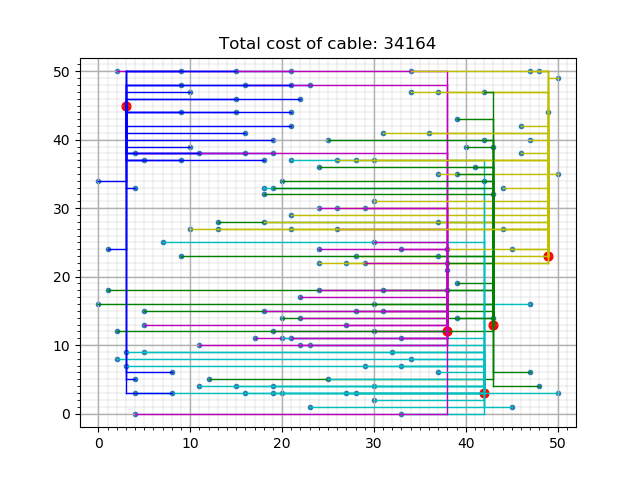
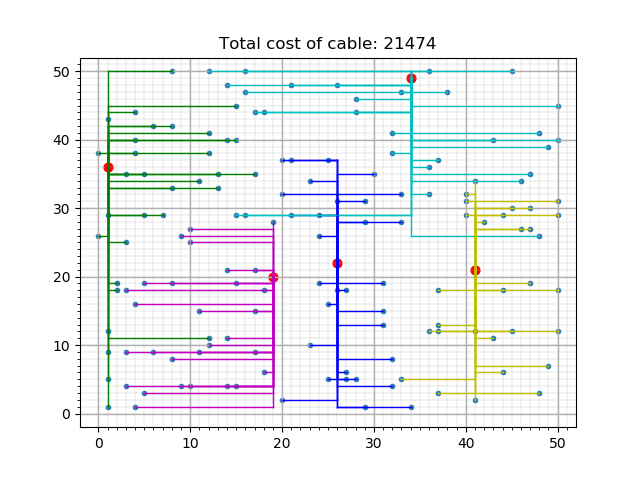
Optimize upgrade

Changed region(s): [[0.1562, 0.0625, 0.875, 0.875]]

diff --git a/smartgrid.py b/smartgrid.py
@@ -8,7 +8,7 @@ import re
 import operator
 
 # Moet worden vervangen door user input
-INPUT = 1
+INPUT = 2
 
 
 class Smartgrid(object):
@@ -221,7 +221,7 @@ class Smartgrid(object):
         changes = 0
 
         # While one or more batteries are over their capacity
-        while self.check_full():
+        while self.check_full() and changes < 250:
 
             # kan korter
             # Sorts batteries based off total inputs from high to low
@@ -250,6 +250,12 @@ class Smartgrid(object):
                 curr_batt = house.link
                 changes += 1
                 self.swap_houses(house, curr_batt, to_batt, changes)
+                break
+        for i in self.batteries:
+            print(self.batteries[i].filled())
+            print(f"{self.batteries[i].x}/{self.batteries[i].y}")
+            # for house in self.batteries[i].linked_houses:
+            #     print(house.output)
 
     def sort_linked_houses(self, battery):
         """
@@ -257,11 +263,18 @@ class Smartgrid(object):
         """
         distance_list = []
         for house in battery.linked_houses:
-            element = []
             batts = list(house.diffs.keys())
-            distance = list(house.diffs.values())
+            distance = []
+            weight = 50 / house.output
+            for diff in list(house.diffs.values()):
+                weighted_diff = diff * weight
+                distance.append(weighted_diff)
+            # distance = list(house.diffs.values())
+            # print(weight)
+            # print(distance)
             houses = [house] * len(distance)
             outputs = [house.output] * len(distance)
+            element = []
             element = list(map(list, zip(batts, distance, houses, outputs)))
             distance_list += element
         return sorted(distance_list, key=operator.itemgetter(1))
@@ -285,7 +298,10 @@ class Smartgrid(object):
         """
         if status is "strict":
             for option in list:
-                if self.batteries[option[0]].filled() + option[2].output <= self.batteries[option[0]].capacity:
+                a = self.batteries[option[0]].filled() + option[2].output
+                b = self.batteries[option[0]].capacity
+                c = b - a
+                if a <= b and not 7 < c < 35:
                     return option[2], self.batteries[option[0]]
         # wordt vervangen door output gewicht
         else:

diff --git a/battery.py b/battery.py
@@ -4,6 +4,7 @@ class Battery(object):
         self.capacity = float(capacity)
         self.x = int(x)
         self.y = int(y)
+        self.id = print(f"{self.x}/{self.y}")
         self.colour = colour
         self.linked_houses = []
         # latere opdrachten de prijs
